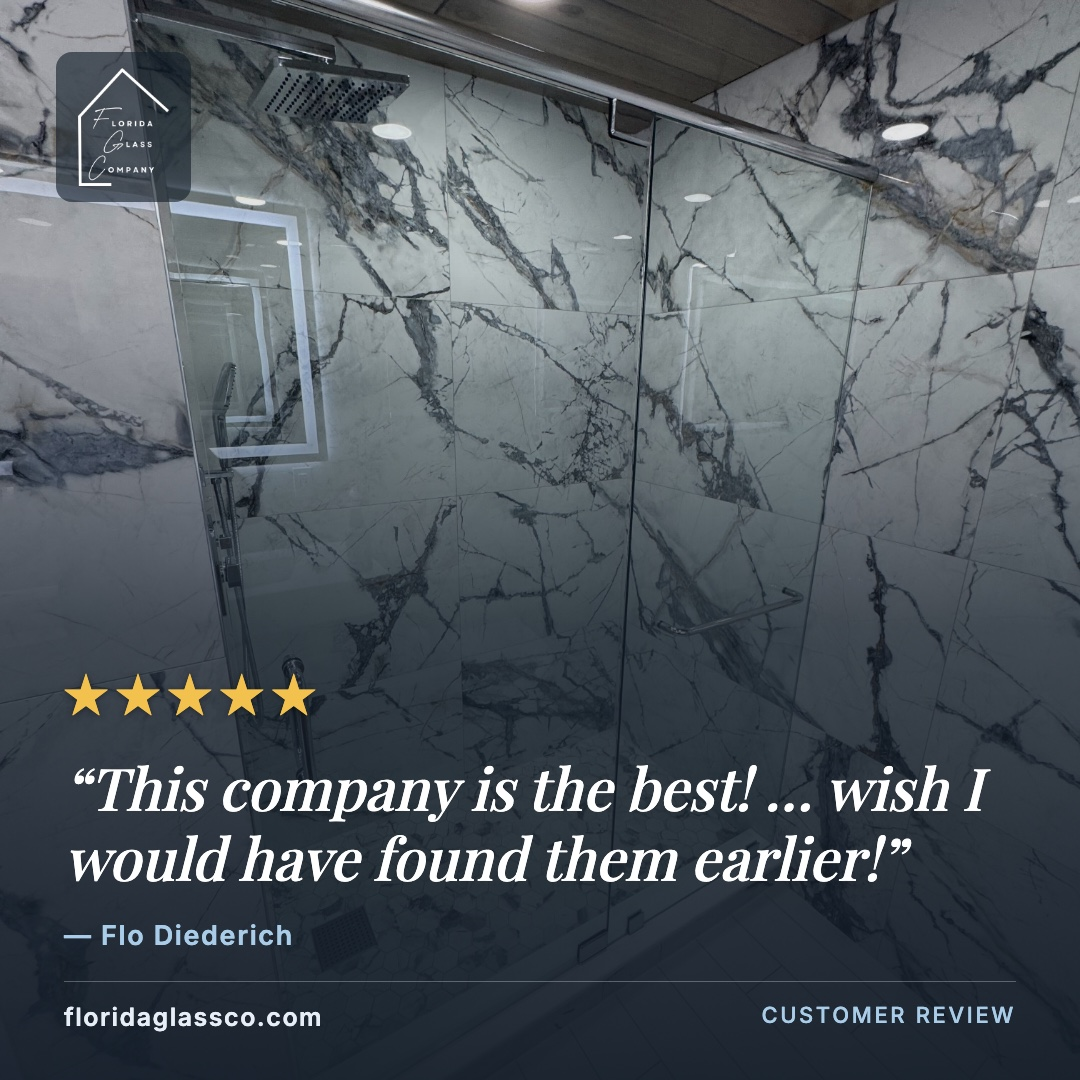
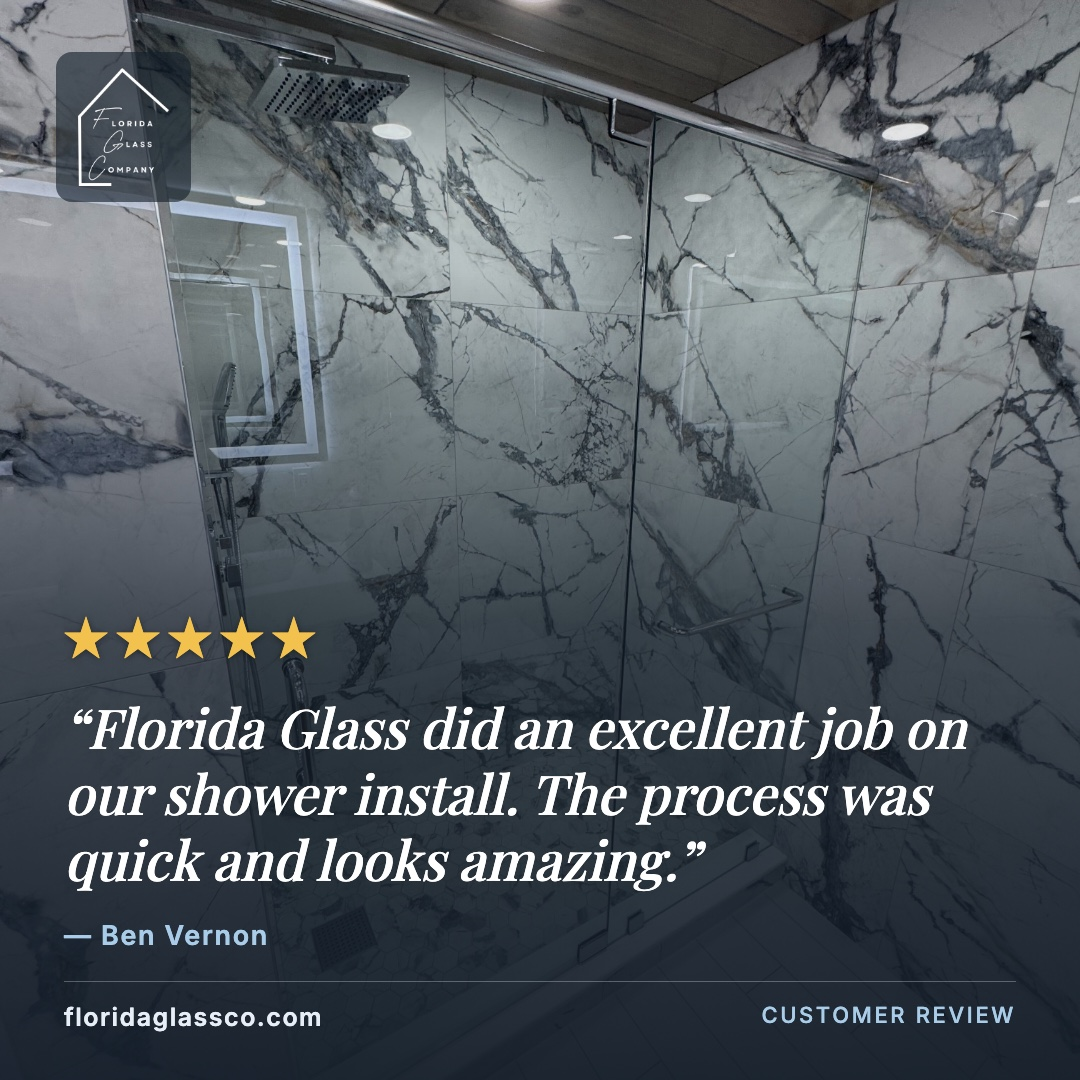
Approved testimonials only (Vernon/Hatfield/Cruz) in FGC review posts; render-proof N) list format + generator sanitizer; fix queued 9/18 lists

Changed region(s): [[0.0611, 0.5806, 0.9167, 0.825], [0.0917, 0.8556, 0.275, 0.8861]]

diff --git a/docs/index.html b/docs/index.html
@@ -33,7 +33,7 @@ footer{text-align:center;font-size:12px;color:#99a;padding:30px}
 </style></head><body>
 <header>
   <h1>Upcoming Social Posts</h1>
-  <p>Everything queued for auto-publish, exactly as it will appear. Updates automatically after every generation and publish run. Last built: Sep 17, 2026, 1:22 PM ET.</p>
+  <p>Everything queued for auto-publish, exactly as it will appear. Updates automatically after every generation and publish run. Last built: Sep 18, 2026, 9:54 AM ET.</p>
   <nav><a href="#bequest">Bequest Digital</a><a href="#fgc">Florida Glass Company</a></nav>
 </header>
 <main>
@@ -44,7 +44,7 @@ footer{text-align:center;font-size:12px;color:#99a;padding:30px}
     <a href="https://raw.githubusercontent.com/bequestdigital/bequest-social/main/content/approved/2026-09-18.jpg" target="_blank"><img src="https://raw.githubusercontent.com/bequestdigital/bequest-social/main/content/approved/2026-09-18.jpg" alt="Tip card listing five subject line formulas with mission-flavored examples, ending with a warning that clickbait spends trust you cannot buy back."></a>
     <div class="body">
       <div class="meta"><span class="badge up">Scheduled &middot; Friday September 18</span><span class="plats">Facebook &middot; Instagram &middot; X</span></div>
-      <p>Subject lines that get opened — without clickbait.<br><br>Clickbait spikes your open rate once. Then it spends trust you can't buy back. Here are five formulas that work without the tricks:<br><br>1. Specific number: &quot;3 families housed this month&quot;<br>2. Question: &quot;Is your giving page costing you donors?&quot;<br>3. Curiosity gap: &quot;What we almost didn't send&quot;<br>4. How-to: &quot;How to write a thank-you donors actually read&quot;<br>5. Plain benefit: &quot;Your year-end giving receipt is ready&quot;<br><br>None of these manipulate. All of them respect the reader. That's the kind of email list worth building.</p>
+      <p>Subject lines that get opened — without clickbait.<br><br>Clickbait spikes your open rate once. Then it spends trust you can't buy back. Here are five formulas that work without the tricks:<br><br>1) Specific number: &quot;3 families housed this month&quot;<br>2) Question: &quot;Is your giving page costing you donors?&quot;<br>3) Curiosity gap: &quot;What we almost didn't send&quot;<br>4) How-to: &quot;How to write a thank-you donors actually read&quot;<br>5) Plain benefit: &quot;Your year-end giving receipt is ready&quot;<br><br>None of these manipulate. All of them respect the reader. That's the kind of email list worth building.</p>
     </div>
   </div></div>
     
@@ -116,10 +116,10 @@ footer{text-align:center;font-size:12px;color:#99a;padding:30px}
     </div>
   </div>
 <div class="card">
-    <a href="https://raw.githubusercontent.com/bequestdigital/bequest-social/main/content/fgc/approved/2026-09-28.jpg" target="_blank"><img src="https://raw.githubusercontent.com/bequestdigital/bequest-social/main/content/fgc/approved/2026-09-28.jpg" alt="Five-star review card: 'This company is the best! ... wish I would have found them earlier!' — Flo Diederich, over a marble glass shower install"></a>
+    <a href="https://raw.githubusercontent.com/bequestdigital/bequest-social/main/content/fgc/approved/2026-09-28.jpg" target="_blank"><img src="https://raw.githubusercontent.com/bequestdigital/bequest-social/main/content/fgc/approved/2026-09-28.jpg" alt="Five-star review card: 'Florida Glass did an excellent job on our shower install. The process was quick and looks amazing.' — Ben Vernon, over a marble glass shower install"></a>
     <div class="body">
       <div class="meta"><span class="badge up">Scheduled &middot; Monday September 28</span><span class="plats">Facebook</span></div>
-      <p>⭐⭐⭐⭐⭐ &quot;This company is the best! They communicate well and their service crew took care of our issue professionally! Thank you, wish I would have found them earlier!&quot; — Flo Diederich<br><br>We'll take that trade — measured twice, installed once, every time. Ready for yours? floridaglassco.com/contact-us/</p>
+      <p>⭐⭐⭐⭐⭐ &quot;Florida Glass did an excellent job on our shower install. The process was quick and looks amazing. Staff was really helpful and left the work area clean. Highly recommend.&quot; — Ben Vernon<br><br>Measured twice, installed once, work area spotless — every time. Ready for yours? floridaglassco.com/contact-us/</p>
     </div>
   </div>
 <div class="card">
@@ -158,10 +158,10 @@ footer{text-align:center;font-size:12px;color:#99a;padding:30px}
     </div>
   </div>
 <div class="card">
-    <a href="https://raw.githubusercontent.com/bequestdigital/bequest-social/main/content/fgc/approved/2026-10-12.jpg" target="_blank"><img src="https://raw.githubusercontent.com/bequestdigital/bequest-social/main/content/fgc/approved/2026-10-12.jpg" alt="Five-star review card: 'Company was very professional and timely. Highly recommend.' — Marlene Miller, over a dark-grid tiled shower"></a>
+    <a href="https://raw.githubusercontent.com/bequestdigital/bequest-social/main/content/fgc/approved/2026-10-12.jpg" target="_blank"><img src="https://raw.githubusercontent.com/bequestdigital/bequest-social/main/content/fgc/approved/2026-10-12.jpg" alt="Five-star review card: 'Paid attention to detail and explained everything. Very professional, and we were very pleased.' — Joyce Hatfield, over a dark-grid tiled shower"></a>
     <div class="body">
       <div class="meta"><span class="badge up">Scheduled &middot; Monday October 12</span><span class="plats">Facebook</span></div>
-      <p>&quot;Company was very professional and timely. Highly recommend.&quot; — Marlene Miller, 5-star review<br><br>Professional and on time isn't a bonus — it's the job. Showers, mirrors, doors, and everything in between. floridaglassco.com/contact-us/</p>
+      <p>&quot;Hiram and crew did a great job installing 4 mirrors and 2 shower doors. Paid attention to detail and explained everything. Very professional, and we were very pleased. Highly recommend!&quot; — Joyce Hatfield<br><br>Showers, mirrors, doors, and everything in between. floridaglassco.com/contact-us/</p>
     </div>
   </div>
 <div class="card">
@@ -221,10 +221,10 @@ footer{text-align:center;font-size:12px;color:#99a;padding:30px}
     </div>
   </div>
 <div class="card">
-    <a href="https://raw.githubusercontent.com/bequestdigital/bequest-social/main/content/fgc/approved/2026-11-02.jpg" target="_blank"><img src="https://raw.githubusercontent.com/bequestdigital/bequest-social/main/content/fgc/approved/2026-11-02.jpg" alt="Five-star review card: 'This company is amazing. They out beat their competition by a significant amount.' over a sliding shower door install"></a>
+    <a href="https://raw.githubusercontent.com/bequestdigital/bequest-social/main/content/fgc/approved/2026-11-02.jpg" target="_blank"><img src="https://raw.githubusercontent.com/bequestdigital/bequest-social/main/content/fgc/approved/2026-11-02.jpg" alt="Five-star review card: 'Florida Glass Company had the best prices, turnaround time, and quality.' — Gabriel Cruz, over a sliding shower door install"></a>
     <div class="body">
       <div class="meta"><span class="badge up">Scheduled &middot; Monday November 2</span><span class="plats">Facebook</span></div>
-      <p>&quot;This company is amazing. They out beat their competition by a significant amount and they were professional and love my glass!&quot; — 5-star customer review<br><br>Rated 5.0 out of 5 across customer reviews, Fort Myers to Naples. We're grateful for every referral — and we work to earn the next one on every job. floridaglassco.com/contact-us/</p>
+      <p>&quot;We got quotes from multiple companies to do all our shower enclosures and mirrors, and Florida Glass Company had the best prices, turnaround time, and quality. The owner made sure every part of the project met our expectations. Very good workmanship and an awesome company to work with!&quot; — Gabriel Cruz<br><br>Fort Myers to Naples, we're grateful for every referral — and we work to earn the next one on every job. floridaglassco.com/contact-us/</p>
     </div>
   </div>
 <div class="card">

diff --git a/src/generate.js b/src/generate.js
@@ -13,7 +13,7 @@ import path from 'node:path';
 import fs from 'node:fs';
 import { execFileSync } from 'node:child_process';
 import brand from '../brand.config.js';
-import { CONTENT, QUEUE, ROOT, readJSON, writeJSON, todayET, addDays, retry, xLength } from './util.js';
+import { CONTENT, QUEUE, ROOT, readJSON, writeJSON, todayET, addDays, retry, xLength, fixNumberedLists } from './util.js';
 
 const MODEL = process.env.MODEL || 'claude-sonnet-4-6';
 const TOKEN_BUDGET = Number(process.env.TOKEN_BUDGET || 150000);
@@ -182,9 +182,9 @@ async function generateOne(entry) {
     type: entry.type,
     hook: entry.hook,
     direction: entry.direction,
-    facebook: body.facebook,
-    instagram: body.instagram,
-    x: body.x,
+    facebook: body.facebook && { ...body.facebook, text: fixNumberedLists(body.facebook.text) },
+    instagram: body.instagram && { ...body.instagram, text: fixNumberedLists(body.instagram.text) },
+    x: body.x && { ...body.x, posts: (body.x.posts || []).map(fixNumberedLists) },
     image: body.image,
     meta: {
       status: 'queued',

diff --git a/src/util.js b/src/util.js
@@ -75,6 +75,26 @@ export async function retry(fn, { attempts = 3, baseMs = 2000, label = 'operatio
   throw last;
 }
 
+// Normalize numbered lists in social copy so every platform renders them
+// literally: "N." at line start becomes "N)" (never auto-formatted/renumbered
+// by any client), and each contiguous list block is renumbered 1..n so a
+// generation slip can't ship 1,2,2,4 or a list starting at 3.
+export function fixNumberedLists(text) {
+  if (!text) return text;
+  const lines = String(text).split('\n');
+  let counter = 0;
+  for (let i = 0; i < lines.length; i++) {
+    const m = lines[i].match(/^(\s*)\d+[.)]\s+(.*)$/);
+    if (m) {
+      counter += 1;
+      lines[i] = `${m[1]}${counter}) ${m[2]}`;
+    } else if (lines[i].trim() !== '') {
+      counter = 0; // non-blank, non-list line ends the block (blank lines don't)
+    }
+  }
+  return lines.join('\n');
+}
+
 export function esc(s) {
   return String(s ?? '')
     .replace(/&/g, '&amp;')
